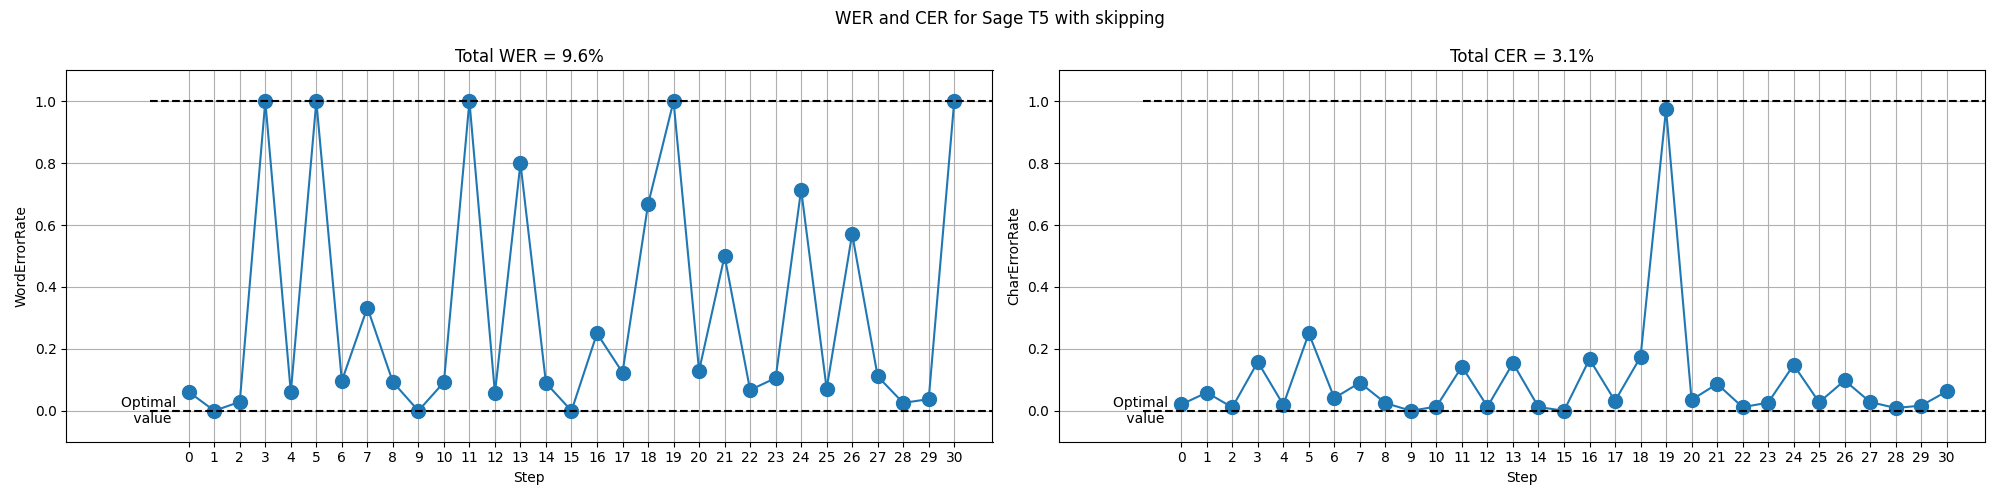
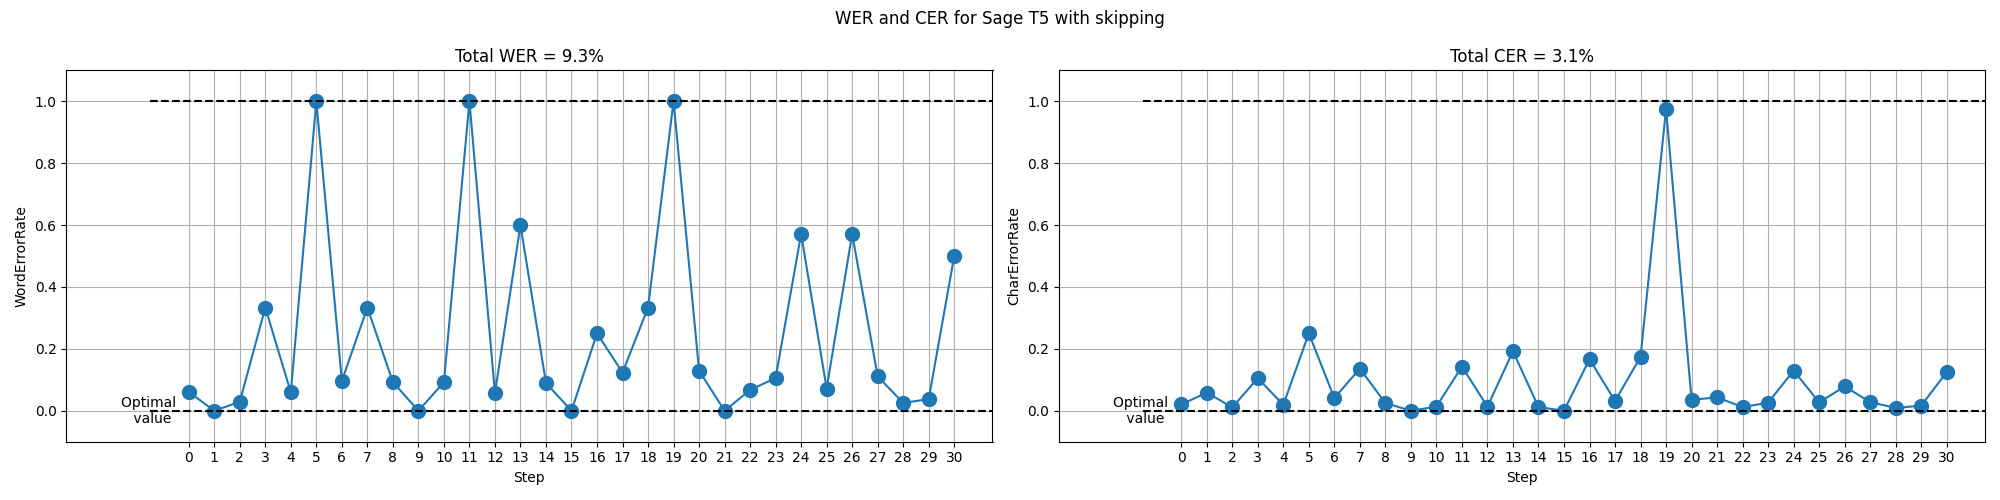
fix title preprocessing

diff --git a/src/experiments/sage_spell_correction.py b/src/experiments/sage_spell_correction.py
@@ -11,7 +11,10 @@ model = AutoModelForSeq2SeqLM.from_pretrained("ai-forever/sage-fredt5-distilled-
 model.to("cuda")
 
 def preprocess_text(text: str):
-    return "".join(text.split("\n"))
+    if len(text) > 100:
+        return "".join(text.split("\n"))
+    else:
+        return " ".join(text.split("\n"))
 
 # Function to process batch of texts
 def correct_spelling_batch(texts, batch_size=32):
